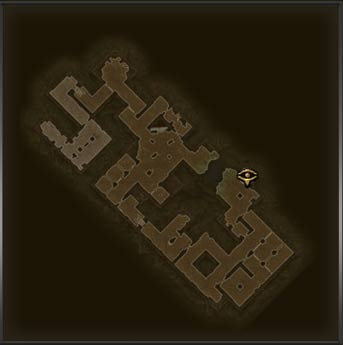
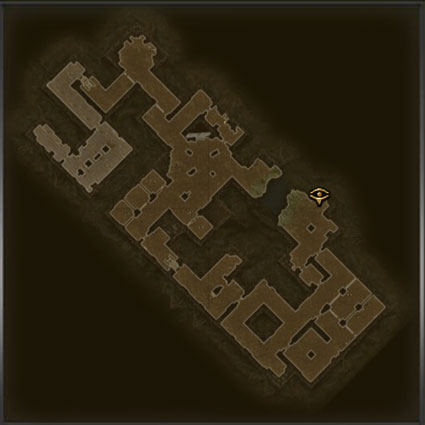
fix put marker out of map

Changed region(s): [[0.0583, 0.058, 0.9038, 0.8986], [0.0, 0.9855, 0.9913, 1.0], [0.4373, 0.4348, 0.4665, 0.4638]]

diff --git a/js/ui.core.js b/js/ui.core.js
@@ -18,8 +18,8 @@ const {
   renderList,
 } = window.UiMarkers || {};
 
- const Routes = window.UiRoutes || {};
-
+  const VIEW_CLAMP_EXTRA_PX = 80; // marge visuelle pour voir les markers en entier
+  const Routes = window.UiRoutes || {};
   const LAST_PROFILE_KEY = 'gdmm_last_profile';
 
 function rememberActiveProfile() {
@@ -431,6 +431,10 @@ function renderMarkers(options = {}) {
   svg.style.left = '0';
   svg.style.top = '0';
   svg.style.pointerEvents = 'none';
+
+  svg.style.overflow = 'visible';
+  svg.setAttribute('overflow', 'visible');
+
   inner.appendChild(svg);
 
   // --- ROUTES ---
@@ -662,6 +666,22 @@ function renderMarkers(options = {}) {
     });
   }
 
+
+// Allow placing markers/routes slightly outside the map image (in %)
+const OUT_OF_MAP_MARGIN_PCT = 10;
+
+function isInExtendedBounds(xp, yp) {
+  return (
+    Number.isFinite(xp) &&
+    Number.isFinite(yp) &&
+    xp >= -OUT_OF_MAP_MARGIN_PCT &&
+    xp <= 100 + OUT_OF_MAP_MARGIN_PCT &&
+    yp >= -OUT_OF_MAP_MARGIN_PCT &&
+    yp <= 100 + OUT_OF_MAP_MARGIN_PCT
+  );
+}
+
+
 viewport.addEventListener('pointerdown', e => {
 
   if (e.altKey && e.shiftKey) {
@@ -718,7 +738,7 @@ viewport.addEventListener('pointerdown', e => {
   // --- MODE MARKER add ---
   if (state.tool === 'add') {
     const { xp, yp } = viewToPct(e.clientX, e.clientY);
-    if (xp >= 0 && xp <= 100 && yp >= 0 && yp <= 100 && state.mapReady) {
+    if (state.mapReady && isInExtendedBounds(xp, yp)) {
       addMarkerFromUI(xp, yp);
     }
     return;
@@ -727,7 +747,7 @@ viewport.addEventListener('pointerdown', e => {
   // --- MODE PATH (point add) ---
   if (state.tool === 'path') {
     const { xp, yp } = viewToPct(e.clientX, e.clientY);
-    if (xp >= 0 && xp <= 100 && yp >= 0 && yp <= 100 && state.mapReady) {
+    if (state.mapReady && isInExtendedBounds(xp, yp)) {
       addPathPoint(xp, yp);
     }
     return;
@@ -855,10 +875,11 @@ viewport.addEventListener('pointermove', e => {
 
     const { xp, yp } = viewToPct(e.clientX, e.clientY);
     if (!panning) {
-      if (isFinite(xp) && isFinite(yp)) {
+      if (Number.isFinite(xp) && Number.isFinite(yp)) {
         const cr = $('#cursorReadout');
-        if (cr) cr.textContent = `x: ${clamp(xp,0,100).toFixed(1)}%, y: ${clamp(yp,0,100).toFixed(1)}%`;
+        if (cr) cr.textContent = `x: ${clamp(xp, 0, 100).toFixed(1)}%, y: ${clamp(yp, 0, 100).toFixed(1)}%`;
       }
+
       // --- Preview route mode PATH ---
       const pm = getPathMode();
       if (
@@ -869,14 +890,12 @@ viewport.addEventListener('pointermove', e => {
         pm.current.points.length > 0 &&
         state.mapReady
       ) {
-        if (xp >= 0 && xp <= 100 && yp >= 0 && yp <= 100) {
-          updatePathPreview(xp, yp);
-        } else {
-          clearPathPreview();
-        }
+        if (isInExtendedBounds(xp, yp)) updatePathPreview(xp, yp);
+        else clearPathPreview();
       } else {
         clearPathPreview();
       }
+
       return;
     }
 
@@ -985,23 +1004,27 @@ viewport.addEventListener('pointermove', e => {
     if (!state.mapReady) return;
 
     const vb = viewport.getBoundingClientRect();
-    const iw = state.mapNatural.w * state.view.scale;
-    const ih = state.mapNatural.h * state.view.scale;
+    const scale = state.view.scale;
 
-    // marges autour de la map
-    const marginLeft   = 550;
-    const marginRight  = 550;
-    const marginTop    = 550;
-    const marginBottom = 550;
+    const iw = state.mapNatural.w * scale;
+    const ih = state.mapNatural.h * scale;
 
-    const minX = vb.width  - iw - marginRight;
-    const maxX = marginLeft;
-    const minY = vb.height - ih - marginBottom;
-    const maxY = marginTop;
+    // Marge hors-map (même logique que placement markers/routes)
+    const marginX = iw * (OUT_OF_MAP_MARGIN_PCT / 100);
+    const marginY = ih * (OUT_OF_MAP_MARGIN_PCT / 100);
+
+    // Marge visuelle supplémentaire (icônes / labels)
+    const extra = VIEW_CLAMP_EXTRA_PX;
+
+    const minX = vb.width  - iw - marginX - extra;
+    const maxX = marginX + extra;
+    const minY = vb.height - ih - marginY - extra;
+    const maxY = marginY + extra;
 
     state.view.x = clamp(state.view.x, minX, maxX);
     state.view.y = clamp(state.view.y, minY, maxY);
   }
+
 
 
   // --- Drag & Drop image ---

diff --git a/index.html b/index.html
@@ -29,7 +29,7 @@
 
   <link rel="icon" type="image/png" href="img/favicon.png">
   <link rel="stylesheet" href="css/general.css?v1.71" />
-  <link rel="stylesheet" href="css/items.css?v1.73" />
+  <link rel="stylesheet" href="css/items.css?v1.74" />
   <link rel="stylesheet" href="css/responsive.css?v1.31" />
   
 </head>
@@ -686,18 +686,18 @@
   <script src="js/ui.lang.js?v=3.70"></script>
   <script src="js/core.js?v=3.13"></script>
   <script src="js/ui.rift.js?v=3.98"></script>
-  <script src="js/ui.region.js?v=4.23"></script>
+  <script src="js/ui.region.js?v=4.24"></script>
 
   <script src="js/ui.shrine.js?v=1.09"></script>
 
   <script src="js/ui.navmarkers.js?v=1.23"></script>
-  <script src="js/ui.map.base.js?v=1.47"></script>
+  <script src="js/ui.map.base.js?v=1.48"></script>
   <script src="js/ui.map.minimap.js?v=1.13"></script>
 
   <script src="js/ui.markers.js?v=26"></script>
   <script src="js/ui.routes.js?v=1.23"></script>
 
-  <script src="js/ui.core.js?v=3.99"></script>
+  <script src="js/ui.core.js?v=4.00"></script>
 
   <script src="js/ui.map.notes.js?v=1.03"></script>
 
@@ -706,7 +706,7 @@
 
   <script src="libs/pako.min.js"></script>
   <script src="js/ui.tools.js?v=3.0"></script>
-  <script src="js/ui.overlay.js?v=3.34"></script>
+  <script src="js/ui.overlay.js?v=3.35"></script>
   <script src="js/ui.dungeon.links.js?v=1.25"></script>
   <script src="js/ui.filter.js?v=3.03"></script>
   <script src="js/ui.search.js?v=1.23"></script>

diff --git a/js/ui.map.base.js b/js/ui.map.base.js
@@ -43,7 +43,7 @@
     { id:'lucius', w: 100, h: 110, img: 'img/qol/lucius.png', xp: 15.31, yp: 15.04, isDungeon: true },
     { id:'loghorrean', w: 140, h: 110, img: 'img/qol/loghorrean.png', xp: 14.11, yp: 4.51, isDungeon: true },
     { id:'thalonis.png', w: 90, h: 130, img: 'img/qol/thalonis.png', xp: 10.70, yp: 7.25, isDungeon: true },
-    { id:'sharzul.png', w: 130, h: 160, img: 'img/qol/sharzul.png', xp: 52.05, yp: 0.7, isDungeon: true },
+    { id:'sharzul.png', w: 140, h: 170, img: 'img/qol/sharzul.png', xp: 52.30, yp: 1, isDungeon: true },
     { id:'anasteria', w: 150, h: 90, img: 'img/qol/anasteria.png', xp: 6.5, yp: 18.43, isDungeon: true },
     { id:'igor-eternal', w: 100, h: 130, img: 'img/qol/igor-eternal.png', xp: 44.60, yp: 97.91, isDungeon: true },
     { id:'kaliska', w: 120, h: 90, img: 'img/qol/kaliska.png', xp: 79.35, yp: 64.20,  anchor: 'center' },
@@ -70,6 +70,10 @@
     { id:'kymon-father', w: 90, h: 85, img: 'img/qol/kymon-father.png', xp: 39.26, yp: 56.98, isDungeon: true },
 
     { id:'karroz', w: 115, h: 115, img: 'img/qol/karroz.png', xp: 27.24, yp: 41.04, isDungeon: true },
+    { id:'rolderathis', w: 90, h: 120, img: 'img/qol/rolderathis.png', xp: 64.49, yp: 72.94, isDungeon: true },
+    { id:'salazar', w: 90, h: 140, img: 'img/qol/salazar.png', xp: 78.70, yp: 74.32, isDungeon: true },
+
+
 
 
   ];

diff --git a/js/ui.overlay.js b/js/ui.overlay.js
@@ -16,7 +16,7 @@ window.DUNGEON_OVERLAYS = [
 { id: "hargate_laboratory", map: "cairn", img: "hargate-laboratory.jpg?1.0", left: 56.0013, top: 75.5905, width: 6.8742, height: 4.6104 },
 { id: "the_hidden_path", map: "cairn", img: "the-hidden-path.jpg?1.0", left: 14.8229, top: 29.7744, width: 4.3942, height: 4.2104 },
 
-{ id: "depraved_sanctuary", map: "cairn", img: "depraved-sanctuary.jpg", left: 77.8031, top: 70.9049, width: 3.8444, height: 3.7678 },
+{ id: "depraved_sanctuary", map: "cairn", img: "depraved-sanctuary.jpg?1.0", left: 77.0266, top: 70.8195, width: 4.3266, height: 4.2136 },
 { id: "flooded_passage", map: "cairn", img: "flooded-passage.jpg?1.0", left: 60.4262, top: 68.7089, width: 4.8966, height: 4.795 },
 { id: "cronleys_hideout", map: "cairn", img: "cronleys-hideout.jpg?1.0", left: 53.4257, top: 65.3967, width: 6.1811, height: 6.0534 },
 { id: "hannefy_mine", map: "cairn", img: "hannefy-mine.jpg?1.0", left: 56.0286, top: 71.5493, width: 3.962, height: 3.9036 },

diff --git a/js/ui.region.js b/js/ui.region.js
@@ -46,7 +46,7 @@
 { id: 'GDX1UGU_gdenbog_cellar01', tag: 'tagGDX1UGUgdenbogCellar01', xp: 70.38, yp: 43.29, isDungeon: true },
 { id: 'map_flooded_passage01', tag: 'tagMapFloodedPassage01', xp: 62.75, yp: 69.02, isDungeon: true },
 { id: 'burrwitch_cellar02', tag: 'tagBurrwitchCellar02', xp: 69.38, yp: 56.78, isDungeon: true },
-{ id: 'UG_cellar02', tag: 'tagUGCellar02', xp: 78.14, yp: 74.24, isDungeon: true },
+{ id: 'UG_cellar02', tag: 'tagUGCellar02', xp: 78.95, yp: 71.33, isDungeon: true },
 { id: 'map_foggy_bank', tag: 'tagMapFoggyBank', xp: 69.74, yp: 74.12 },
 { id: 'map_burrwitch_outskirts01', tag: 'tagMapBurrwitchOutskirts01', xp: 68.64, yp: 69.91 },
 { id: 'map_moldering_fields', tag: 'tagMapMolderingFields', xp: 66.13, yp: 66.83 },

diff --git a/css/items.css b/css/items.css
@@ -1281,7 +1281,7 @@ header button.menu-button.select-current:hover {
 }
 
 .decor-dungeon{
-  opacity: 0.15;
+  opacity: 0.1;
 }
 
 .marker-region-dungeon .region-label.opacity,
@@ -1347,7 +1347,7 @@ header button.menu-button.select-current:hover {
   height: 100%;
   background-size: cover;
   background-position: center;
-  opacity: 0.15;
+  opacity: 0.1;
   transition: opacity 0.15s ease, transform 0.15s ease;
 }
 
